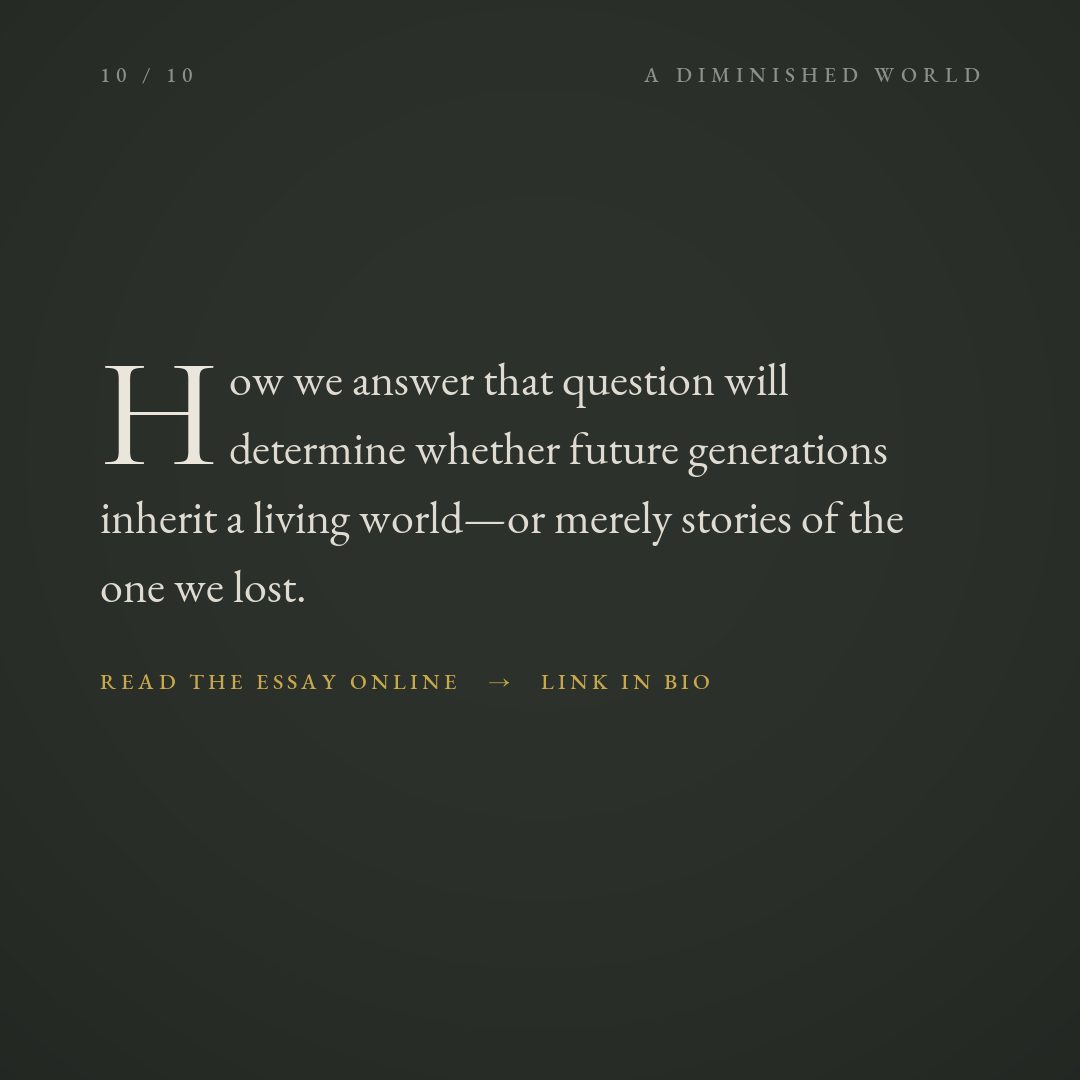
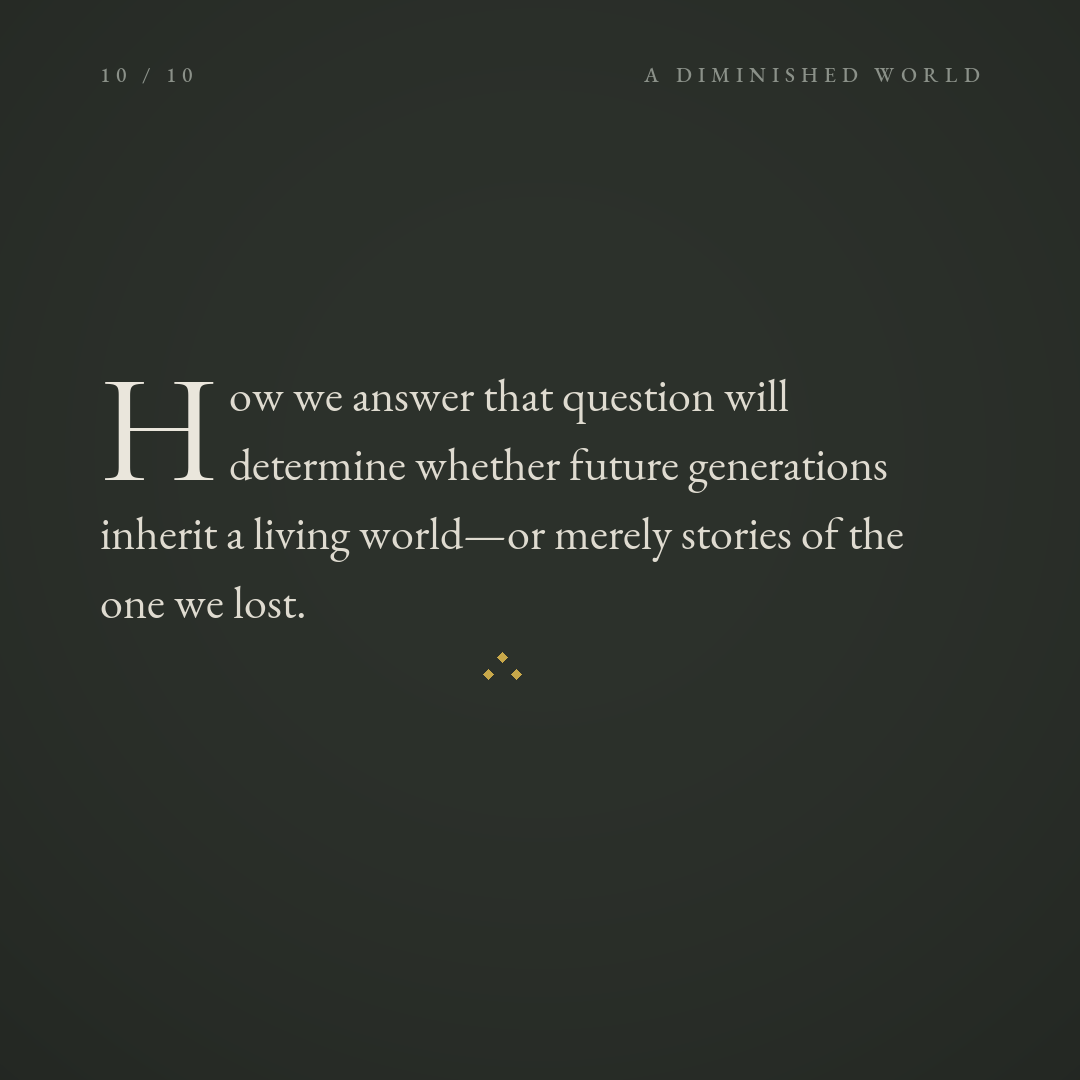
Split essay 13 deck into online vs Instagram versions
The site carousel no longer shows the "READ THE ESSAY ONLINE -> LINK IN BIO"
CTA (redundant when the reader is already online); its final slide now closes
with the deck's asterism tailpiece. The Instagram version (with the CTA) is
archived under instagram/13-diminished/ - a new non-web-served folder to grab
from when posting. scripts/gen_deck13.py now emits both variants.

diff --git a/scripts/gen_deck13.py b/scripts/gen_deck13.py
@@ -297,23 +297,35 @@ SLIDES = [
  dict(k='read', tail='asterism', text='Our forests, rivers, national parks and public lands occupy a critical place in our cultural imagination. They are not simply recreational spaces or economic assets. They are repositories of memory, biodiversity, beauty, and identity. They remind us that there are parts of the world whose greatest value lies precisely in remaining more than raw material.'),
  dict(k='call', head='An extractive mindset asks what can be removed. A stewardship mindset asks what can endure.', ornament='divider'),
  dict(k='call', head='Do we belong to the natural world, or does it belong to us?', ornament='divider'),
- dict(k='read', dropcap=True, text='How we answer that question will determine whether future generations inherit a living world—or merely stories of the one we lost.',
-      cta='READ THE ESSAY ONLINE   →   LINK IN BIO'),
+ dict(k='read', dropcap=True, text='How we answer that question will determine whether future generations inherit a living world—or merely stories of the one we lost.'),
 ]
 
-OUT = '/Users/tcs16/Desktop/Personal/Projects/metaphysics-git/public/slides/13-diminished'
-os.makedirs(OUT, exist_ok=True)
-for old in os.listdir(OUT):
-    if old.startswith('essay13_slide_') and old.endswith('.png'):
-        os.remove(os.path.join(OUT, old))
+# Two closing variants share slides 1-9; only the final slide differs.
+#   online — served in the site carousel: no CTA (the reader is already online),
+#            closes with the deck's asterism tailpiece like other paragraph-ends.
+#   ig     — archived for Instagram: carries the link-in-bio call to action.
+import re
+REPO = '/Users/tcs16/Desktop/Personal/Projects/metaphysics-git'
+CTA = 'READ THE ESSAY ONLINE   →   LINK IN BIO'
+TARGETS = {
+    'online': (f'{REPO}/public/slides/13-diminished', dict(tail='asterism')),
+    'ig':     (f'{REPO}/instagram/13-diminished',     dict(cta=CTA)),
+}
 
-for i, s in enumerate(SLIDES, start=1):
-    if s['k'] == 'cover':
-        img = render_cover(s['title'], s['support'], i)
-    elif s['k'] == 'read':
-        img = render_reading(s, i)
-    else:
-        img = render_callout(s['head'], i, ornament=s.get('ornament'))
-    img.save(f'{OUT}/essay13_slide_{i:02d}.png')
-    print(f'wrote essay13_slide_{i:02d}.png ({s["k"]})')
+for mode, (outdir, closing_extra) in TARGETS.items():
+    os.makedirs(outdir, exist_ok=True)
+    for old in os.listdir(outdir):
+        if re.fullmatch(r'essay13_slide_\d{2}\.png', old):   # keep _gray thumbnail
+            os.remove(os.path.join(outdir, old))
+    slides = [dict(s) for s in SLIDES]
+    slides[-1] = {**slides[-1], **closing_extra}
+    for i, s in enumerate(slides, start=1):
+        if s['k'] == 'cover':
+            img = render_cover(s['title'], s['support'], i)
+        elif s['k'] == 'read':
+            img = render_reading(s, i)
+        else:
+            img = render_callout(s['head'], i, ornament=s.get('ornament'))
+        img.save(f'{outdir}/essay13_slide_{i:02d}.png')
+    print(f'{mode}: wrote 10 slides -> {outdir}')
 print('done')

diff --git a/instagram/README.md b/instagram/README.md
@@ -1,0 +1,20 @@
+# Instagram decks
+
+Post-ready carousel decks for Instagram — **one folder per essay** (`{n}-{slug}/`),
+each a complete set of `essay{n}_slide_01…NN.png` (1080×1080).
+
+These are the **Instagram** versions: the final slide carries a
+`READ THE ESSAY ONLINE → LINK IN BIO` call to action.
+
+The **online** versions the website serves live in `public/slides/{n}-{slug}/`
+and are identical except the final slide drops the CTA (the reader is already
+online) and closes with the deck's asterism tailpiece instead.
+
+This folder is **not web-served** — it's a local archive to grab from when
+publishing to Instagram.
+
+## Regenerating (essay 13 only, for now)
+
+`scripts/gen_deck13.py` renders both variants in one run — the online deck into
+`public/slides/13-diminished/` and the Instagram deck here. Older decks were
+produced by an external pipeline and only exist as the PNGs already committed.